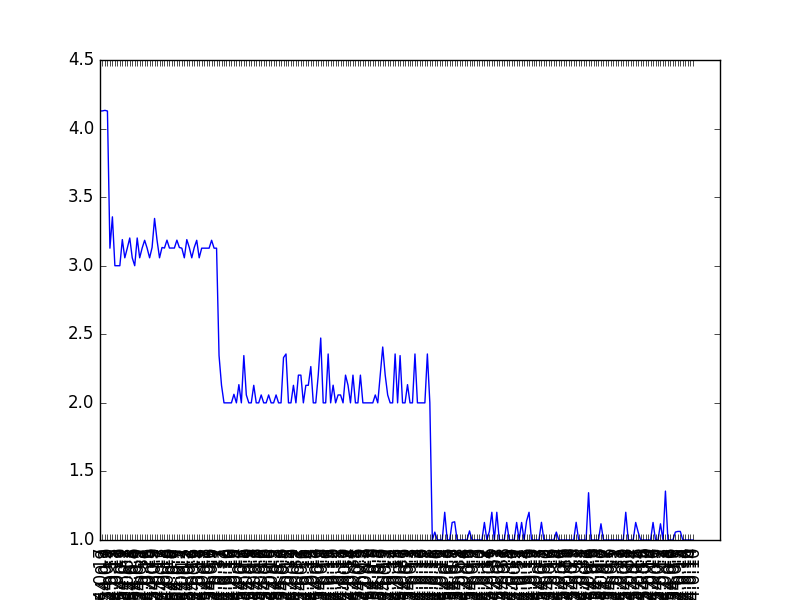
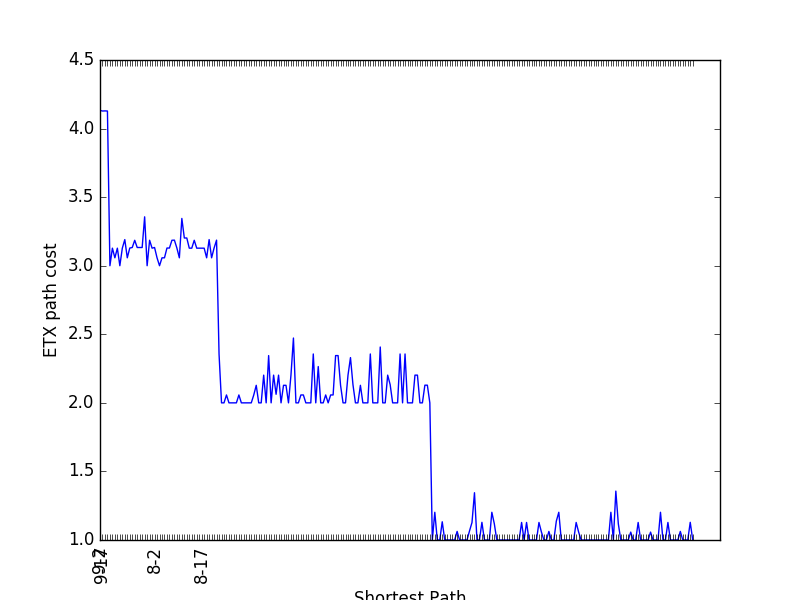
more cosmetics on the graphs

diff --git a/tests/failure_recovery/parser_scripts/parse_json.py b/tests/failure_recovery/parser_scripts/parse_json.py
@@ -2,7 +2,8 @@ import json
 import networkx as nx
 import matplotlib.pyplot as plt
 import os
-#
+
+# Use this to get the topology from somewhere in the management network
 #addresses = [
 #        '192.168.254.10',
 #        '192.168.254.1',
@@ -37,13 +38,25 @@ for source, path in nx.shortest_path(g, weight="weight").items():
         if len(currpath) > 1:
             for idx, n in enumerate(path[dest][:-1]):
                 weight += g[currpath[idx]][currpath[idx+1]]["weight"]
-            paths[source+"-"+dest] = [len(currpath), weight]
+            s = source.split(".")[3]
+            d = dest.split(".")[3]
+            label = source.split(".")[3]+"-"+dest.split(".")[3] 
+            paths[label] = [len(currpath), weight]
 x = []
 y = []
 for p in sorted(paths.items(), key=lambda x: -x[1][0]):
+    #    label = "-"
     x.append(p[0])
     y.append(p[1][1])
 
+xticks = []
+for v in x:
+    if v == "9-2" or v == "8-2" or v == "9-17" or v == "8-17":
+        xticks.append(v)
+    else:
+        xticks.append("")
 plt.plot(range(len(x)), y)
-plt.xticks(range(len(x)), x, rotation='vertical')
-plt.savefig('topo.png')
+plt.ylabel("ETX path cost")
+plt.xlabel("Shortest Path")
+plt.xticks(range(len(x)), xticks, rotation='vertical')
+plt.savefig('route_lenght_distribution.png')
